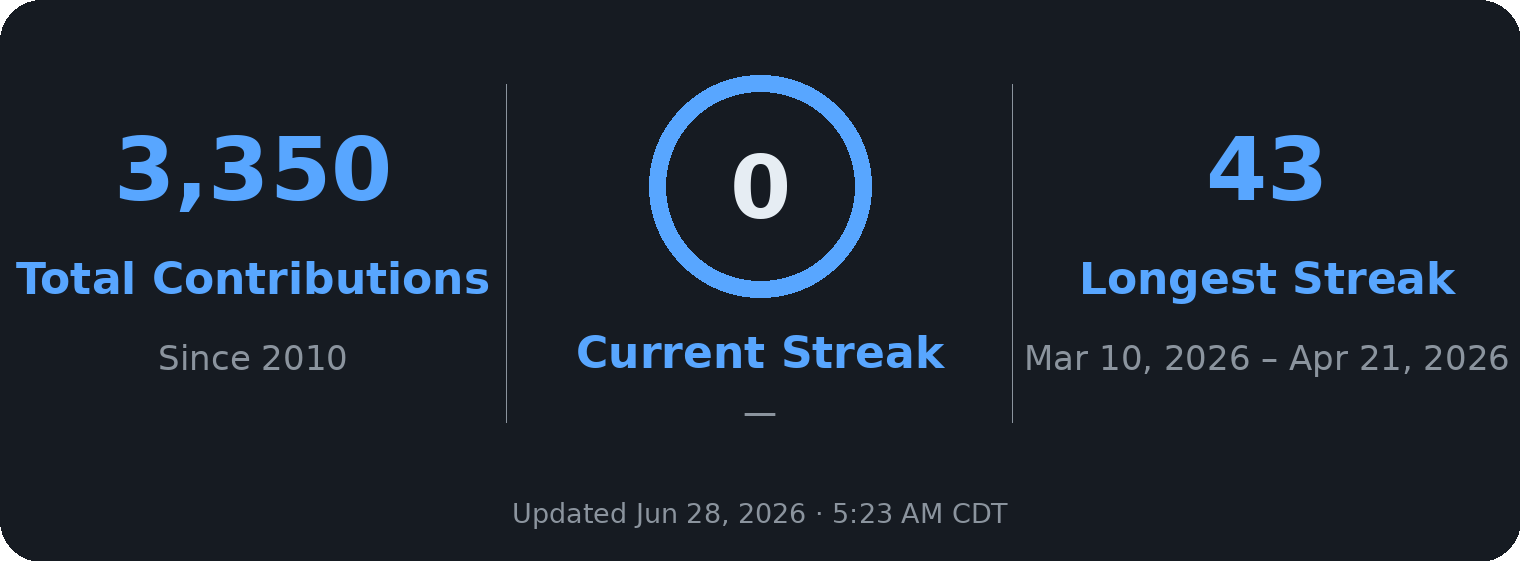
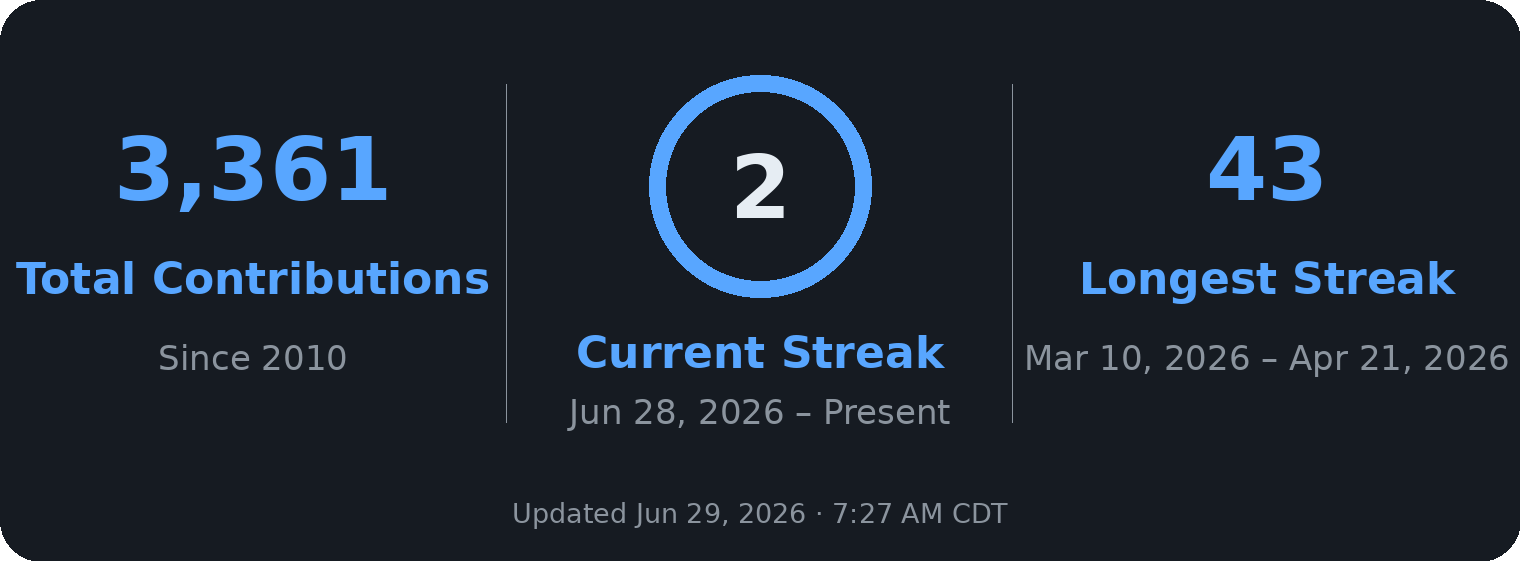
chore: refresh latest post cards

diff --git a/README.md b/README.md
@@ -22,7 +22,7 @@ I build AI-native systems for the modern enterprise, teach the next generation o
 
 <!-- ACTIVITY-CARD:START -->
 <p align="center">
-  <a href="https://github.com/bjgreenberg" target="_blank" rel="noopener noreferrer"><img src="assets/activity_card.png?v=e1ccc5b4" width="760" alt="GitHub activity — 3,350 total contributions, 0-day current streak, 43-day longest streak"/></a>
+  <a href="https://github.com/bjgreenberg" target="_blank" rel="noopener noreferrer"><img src="assets/activity_card.png?v=5085f57d" width="760" alt="GitHub activity — 3,361 total contributions, 2-day current streak, 43-day longest streak"/></a>
 </p>
 <!-- ACTIVITY-CARD:END -->
 
